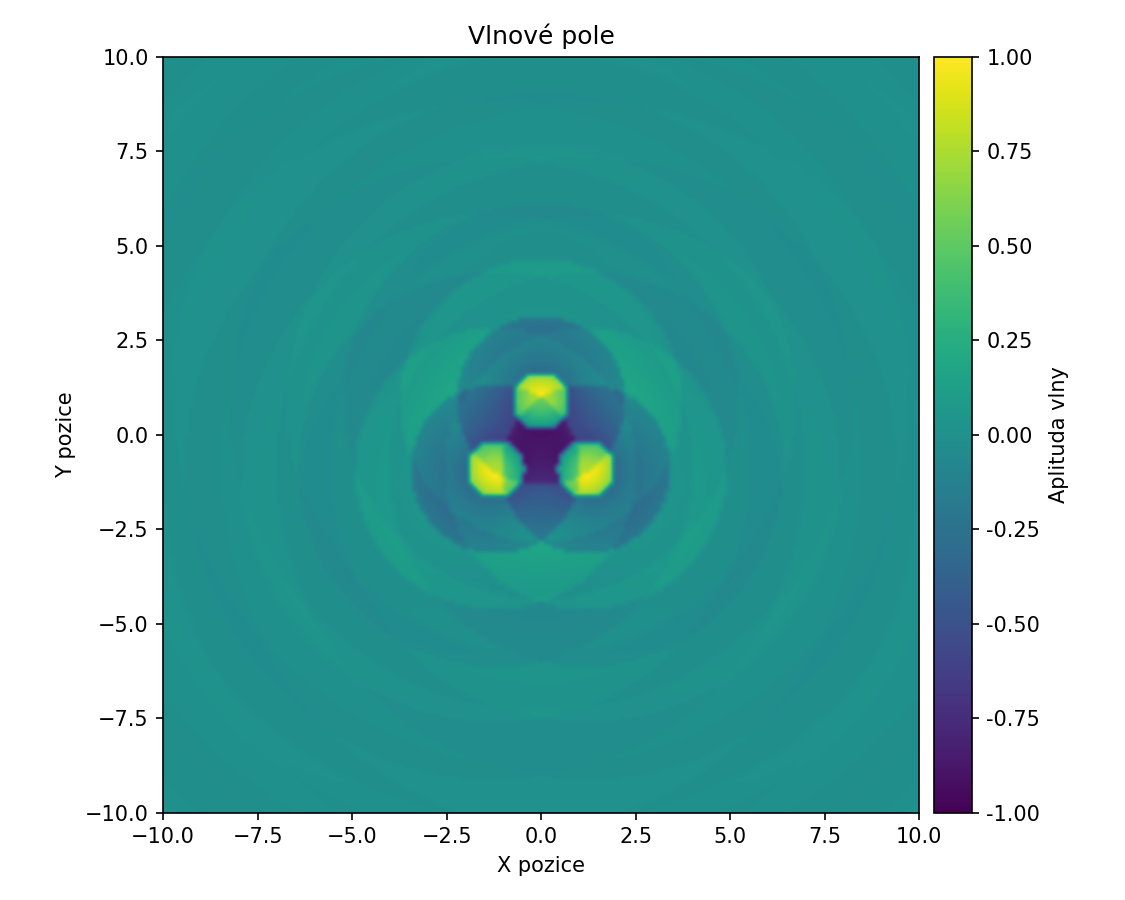
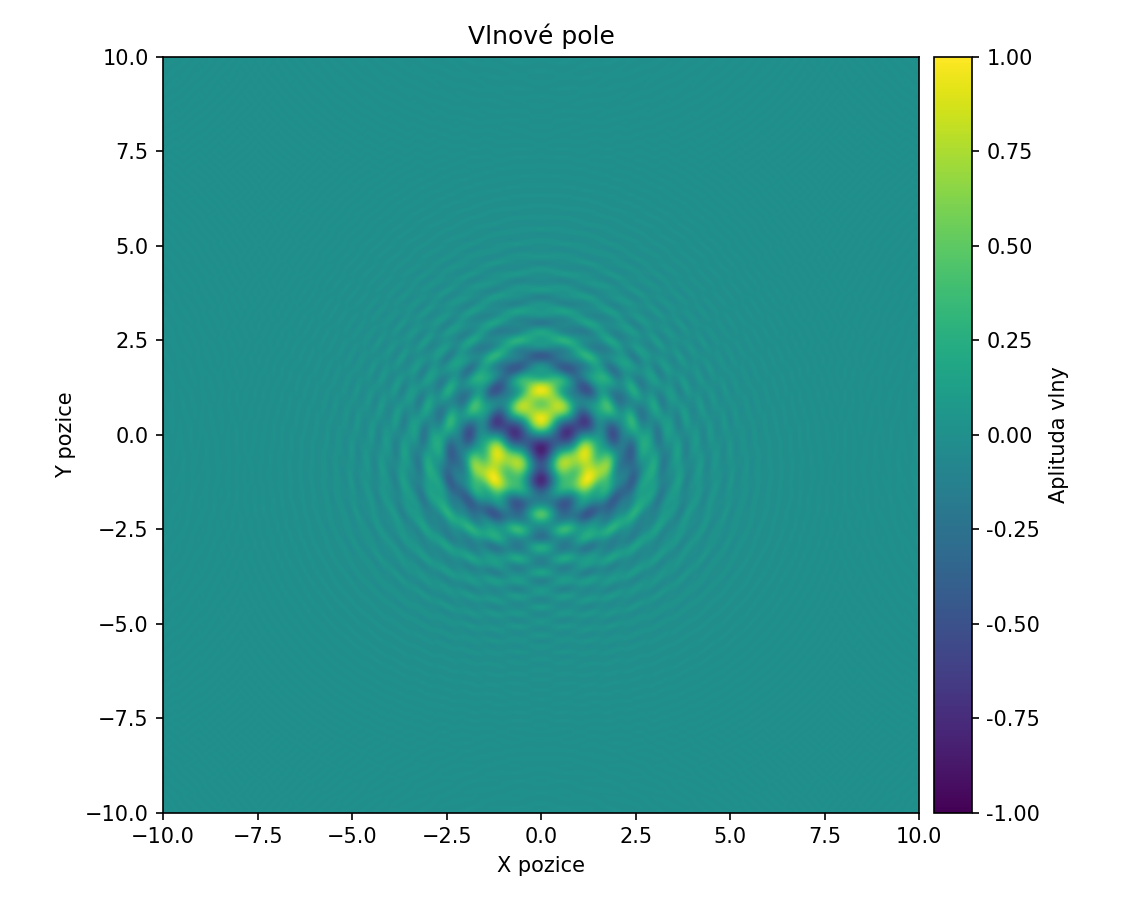
Refactor wave_inference to simplify calculation and remove saturation

Changed region(s): [[0.3733, 0.3422, 0.5911, 0.6222], [0.4667, 0.6222, 0.4978, 0.6533]]

diff --git a/part01.py b/part01.py
@@ -38,11 +38,7 @@ def wave_inference(
 
         k = 2π / λ
         d^2_s[i, j] = (x[i] - S_s[0])^2 + (y[j] + S_s[1])^2
-        r_s[i, j]   = sqrt(d^2_s[i, j])
-        Z[i, j] = Σ_s shape(cos(k * r_s[i, j])) / (1 + d^2_s[i, j])
-
-    where ``shape(·)`` is a saturation mapping that thickens bright/dark ring
-    bands visually by pushing values toward ±1.
+        Z[i, j] = Σ_s cos(k * d^2_s[i, j]) / (1 + d^2_s[i, j])
 
     The implementation is fully vectorized using NumPy; no explicit Python loops
     over the grid points or sources are performed.
@@ -84,16 +80,12 @@ def wave_inference(
     # Per assignment: d^2 = (x - Sx)^2 + (y + Sy)^2
     dx = X[None, :, :] - sx
     dy = Y[None, :, :] + sy
-    r2 = dx * dx + dy * dy  # shape: (ns, nx, ny)
-    r = np.sqrt(r2)
+    d2 = dx * dx + dy * dy  # shape: (ns, nx, ny)
 
     k = 2.0 * np.pi / float(wavelength)
 
-    # Compute contribution per source with a saturation transform to thicken bands
-    c = np.cos(k * r)
-    # Stronger saturation (exp < 1) => thicker bright/dark regions (tunable)
-    c = np.sign(c) * (np.abs(c) ** 0.02)
-    contributions = c / (1.0 + r2)
+    # Compute contribution per source per assignment: cos(k * d^2) / (1 + d^2)
+    contributions = np.cos(k * d2) / (1.0 + d2)
     Z = np.sum(contributions, axis=0)
     return Z
 
@@ -425,12 +417,8 @@ if __name__ == "__main__":
                 for _sx, _sy in _src:
                     _dx = _xi - float(_sx)
                     _dy = _yj + float(_sy)
-                    _r2 = _dx * _dx + _dy * _dy
-                    _r = _math.sqrt(_r2)
-                    _c = _math.cos(_k * _r)
-                    # Match saturation used in vectorized implementation
-                    _c = (_c / abs(_c) if _c != 0.0 else 0.0) * (abs(_c) ** 0.02)
-                    _s += _c / (1.0 + _r2)
+                    _d2 = _dx * _dx + _dy * _dy
+                    _s += _math.cos(_k * _d2) / (1.0 + _d2)
                 _Z[_i, _j] = _s
         return _Z
 
